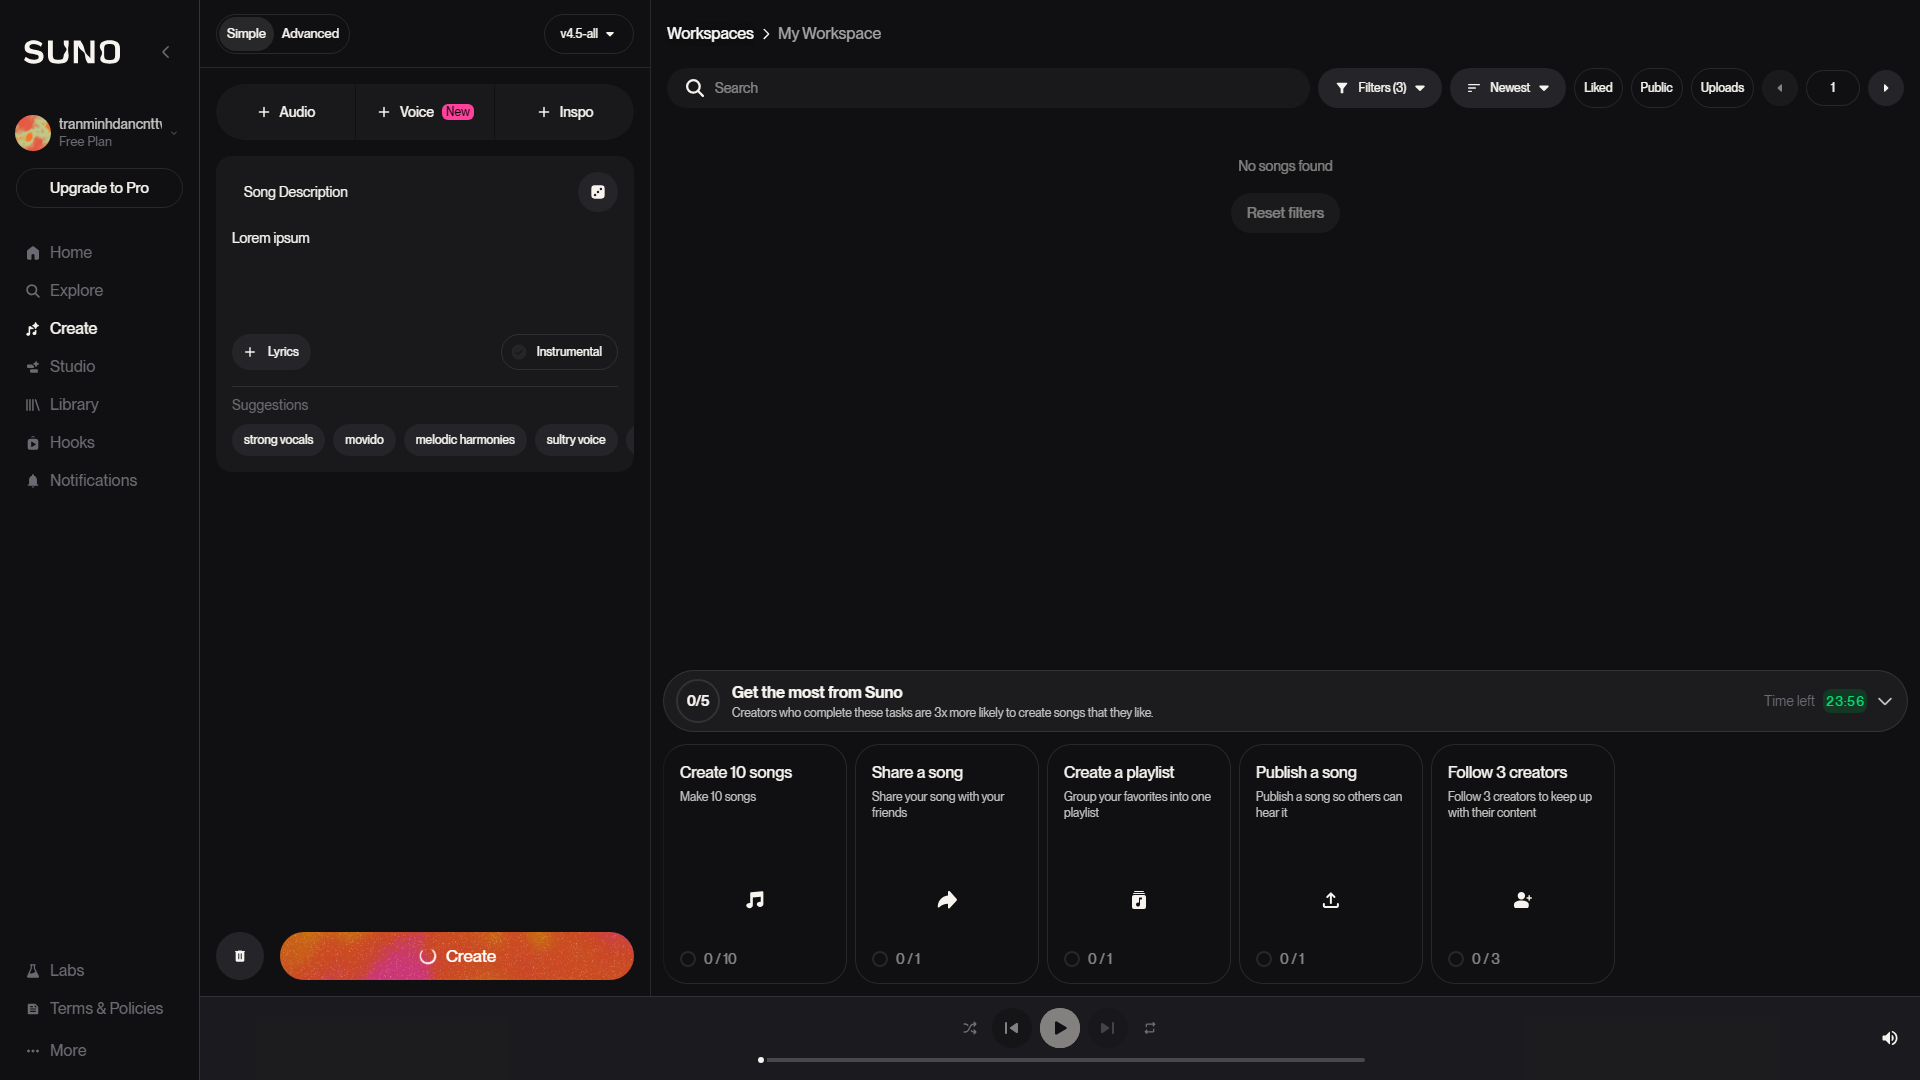
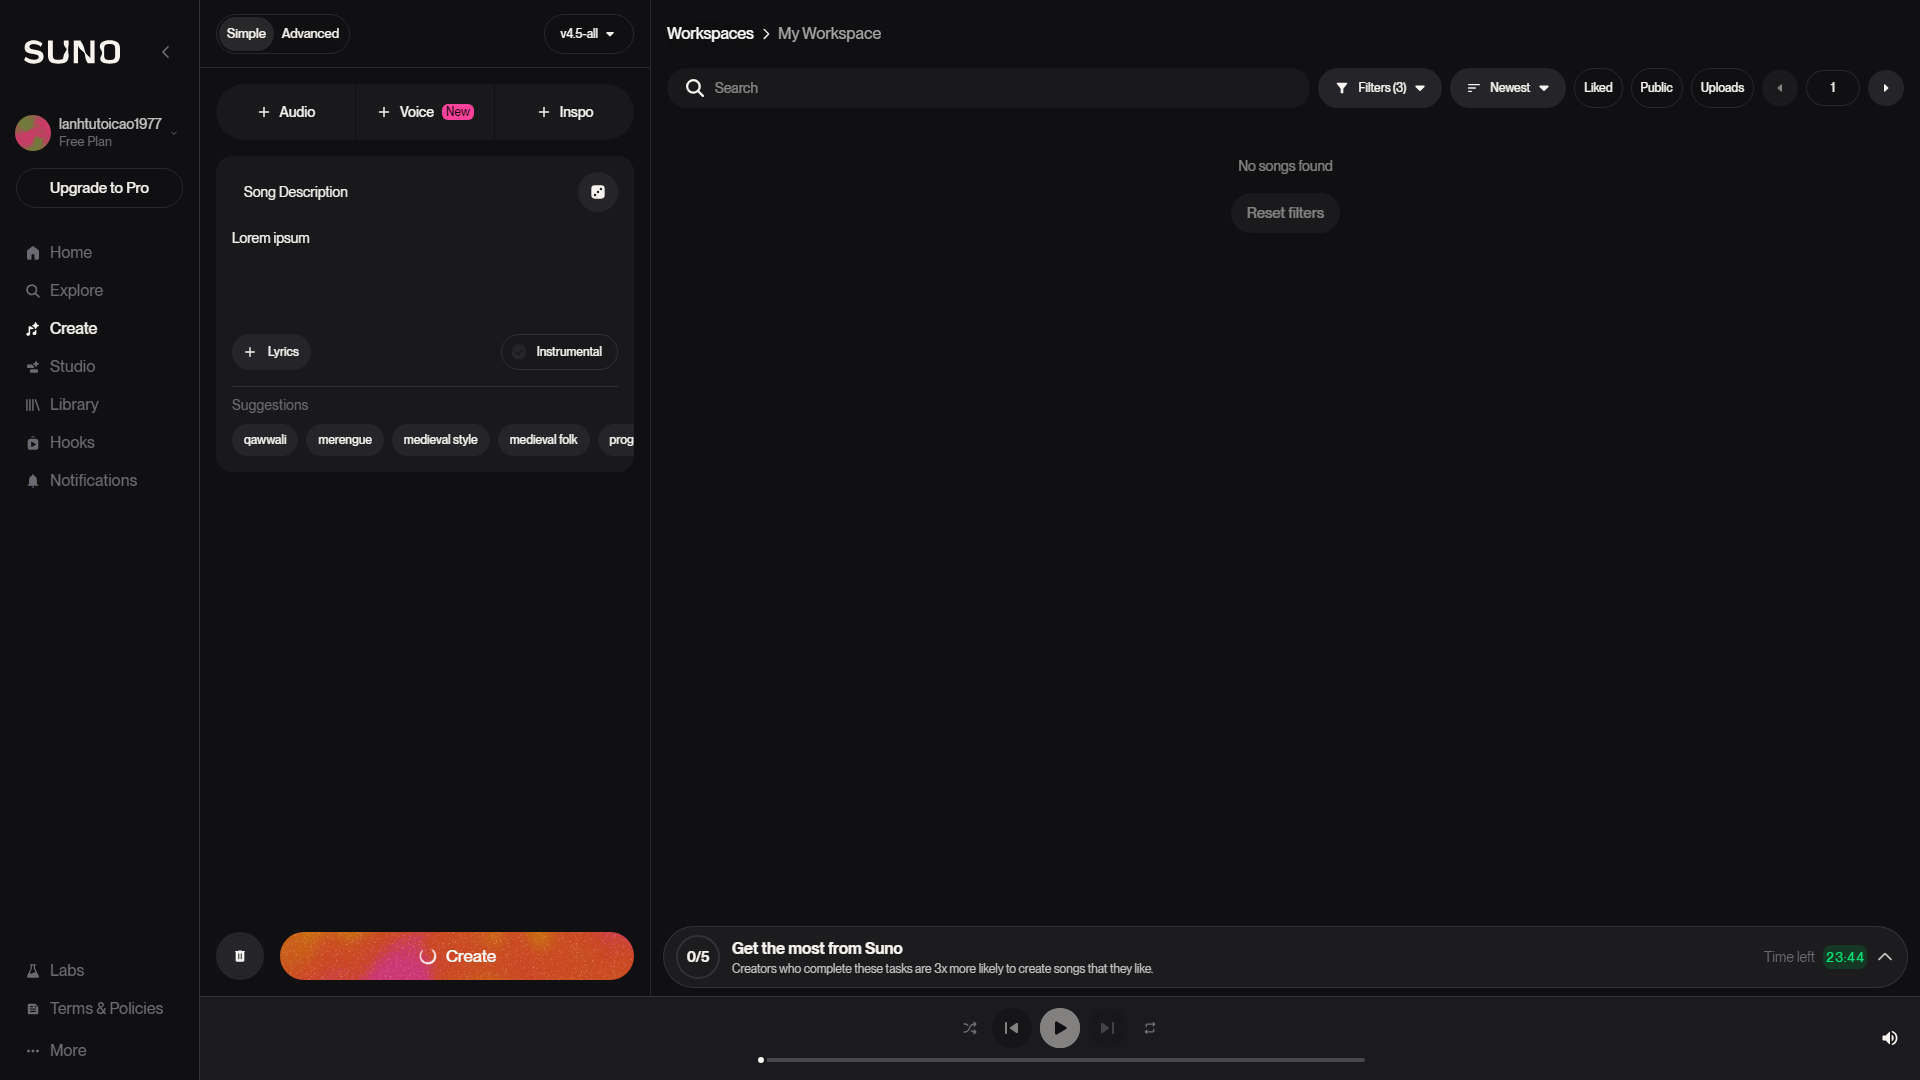
first commit

diff --git a/src/lib/SunoApi.ts b/src/lib/SunoApi.ts
@@ -507,48 +507,91 @@ class SunoApi {
       throw e;
     }
 
+    // FIX: Wait for Clerk handshake navigation to fully settle before touching DOM.
+    // After the project API response, Suno/Clerk may perform an auth redirect
+    // (?__clerk_handshake=...) which destroys the current Playwright execution context.
+    logger.info('[getCaptcha] Waiting for page to settle after auth (Clerk handshake)...');
+    try {
+      await page.waitForLoadState('domcontentloaded', { timeout: 10000 });
+    } catch (e: any) {
+      logger.info('[getCaptcha] domcontentloaded wait timed out, continuing: ' + e.message);
+    }
+    // If we're still in a clerk handshake URL, wait for the final navigation back to /create
+    const currentUrl = page.url();
+    if (currentUrl.includes('__clerk_handshake') || currentUrl.includes('clerk')) {
+      logger.info('[getCaptcha] Clerk redirect URL detected (' + currentUrl.substring(0, 80) + '...), waiting for final navigation...');
+      try {
+        await page.waitForNavigation({ waitUntil: 'domcontentloaded', timeout: 20000 });
+        logger.info('[getCaptcha] Final navigation completed. Current URL: ' + page.url());
+      } catch (e: any) {
+        logger.info('[getCaptcha] waitForNavigation timed out, continuing: ' + e.message);
+      }
+    }
+    // Small buffer for React to hydrate after navigation
+    await sleep(1, 2);
+    logger.info('[getCaptcha] Page settled. Current URL: ' + page.url());
+
     if (this.ghostCursorEnabled) {
       logger.info('[getCaptcha] Initializing ghost cursor...');
       this.cursor = await createCursor(page);
       logger.info('[getCaptcha] Ghost cursor initialized.');
     }
 
+    // FIX: Use .first() to avoid strict mode violation when multiple elements match 'Close'
     logger.info('[getCaptcha] Attempting to close popups (getByLabel Close)...');
     try {
-      await page.getByLabel('Close').click({ timeout: 2000 });
+      await page.getByLabel('Close').first().click({ timeout: 2000 });
       logger.info('[getCaptcha] Popup closed successfully.');
     } catch(e: any) {
       logger.info('[getCaptcha] No popup to close (or timed out): ' + e.message);
     }
 
+    // FIX: Retry textarea finding up to 3 times to handle "Execution context was destroyed"
+    // caused by post-auth navigation events
     logger.info('[getCaptcha] Locating visible textarea element...');
     const textarea = page.locator('textarea:visible');
-    try {
-      // Log how many matching elements exist before waiting
-      const count = await textarea.count();
-      logger.info('[getCaptcha] Visible textarea count (before wait): ' + count);
-      logger.info('[getCaptcha] Waiting for visible textarea (timeout=15000ms)...');
-      await textarea.waitFor({ state: 'visible', timeout: 15000 });
-      logger.info('[getCaptcha] Textarea is visible. Clicking...');
-    } catch (e: any) {
-      logger.error('[getCaptcha] Visible textarea not found: ' + e.message);
-      // Dump page HTML for diagnosis
+    let textareaReady = false;
+    for (let attempt = 1; attempt <= 3; attempt++) {
       try {
-        const html = await page.content();
-        const htmlPath = path.join(process.cwd(), 'public', 'debug-page-content.html');
-        await fs.writeFile(htmlPath, html);
-        logger.info('[getCaptcha] Page HTML dumped to: ' + htmlPath);
-      } catch (htmlErr: any) {
-        logger.warn('[getCaptcha] Could not dump page HTML: ' + htmlErr.message);
+        const count = await textarea.count();
+        logger.info(`[getCaptcha] Visible textarea count (attempt ${attempt}/3): ${count}`);
+        logger.info('[getCaptcha] Waiting for visible textarea (timeout=15000ms)...');
+        await textarea.waitFor({ state: 'visible', timeout: 15000 });
+        logger.info('[getCaptcha] Textarea is visible. Clicking...');
+        textareaReady = true;
+        break;
+      } catch (e: any) {
+        const isNavError = e.message.includes('Execution context was destroyed')
+          || e.message.includes('navigation')
+          || e.message.includes('detached');
+        if (isNavError && attempt < 3) {
+          logger.info(`[getCaptcha] Navigation detected during textarea wait (attempt ${attempt}/3), waiting for page to re-settle...`);
+          try {
+            await page.waitForLoadState('domcontentloaded', { timeout: 15000 });
+          } catch (_) {}
+          await sleep(2, 3);
+          logger.info('[getCaptcha] Retrying textarea search. Current URL: ' + page.url());
+        } else {
+          logger.error('[getCaptcha] Visible textarea not found after ' + attempt + ' attempt(s): ' + e.message);
+          // Dump page HTML for diagnosis
+          try {
+            const html = await page.content();
+            const htmlPath = path.join(process.cwd(), 'public', 'debug-page-content.html');
+            await fs.writeFile(htmlPath, html);
+            logger.info('[getCaptcha] Page HTML dumped to: ' + htmlPath);
+          } catch (htmlErr: any) {
+            logger.warn('[getCaptcha] Could not dump page HTML: ' + htmlErr.message);
+          }
+          try {
+            const screenshotPath = path.join(process.cwd(), 'public', 'debug-textarea-not-found.png');
+            await page.screenshot({ path: screenshotPath, fullPage: true });
+            logger.info('[getCaptcha] Debug screenshot saved to: ' + screenshotPath);
+          } catch (ssErr: any) {
+            logger.warn('[getCaptcha] Could not save screenshot: ' + ssErr.message);
+          }
+          throw e;
+        }
       }
-      try {
-        const screenshotPath = path.join(process.cwd(), 'public', 'debug-textarea-not-found.png');
-        await page.screenshot({ path: screenshotPath, fullPage: true });
-        logger.info('[getCaptcha] Debug screenshot saved to: ' + screenshotPath);
-      } catch (ssErr: any) {
-        logger.warn('[getCaptcha] Could not save screenshot: ' + ssErr.message);
-      }
-      throw e;
     }
 
     await this.click(textarea);